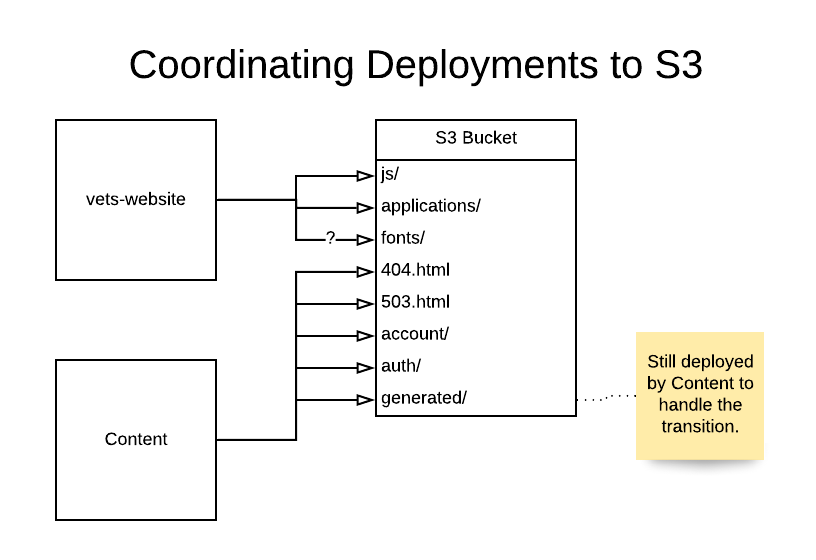
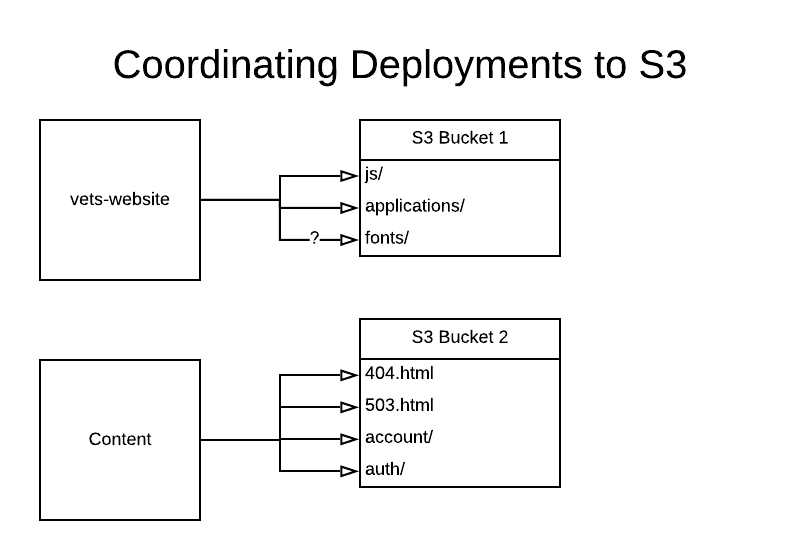
Update Content Build Separation design doc (#10116)
* Update 2020-04-09-separate-content-build.md

* Update s3 bucket diagram

* Update 2020-04-09-separate-content-build.md

* Update platform/engineering/design-docs/2020-04-09-separate-content-build.md

* Update platform/engineering/design-docs/2020-04-09-separate-content-build.md

* Update doc with review feedback

* Add a line back in

* Remove errant underscore

* Rename improve-dev-exp-product-outline to improve-dev-exp-product-outline.md

* Update platform/engineering/design-docs/2020-04-09-separate-content-build.md

diff --git a/platform/engineering/design-docs/2020-04-09-separate-content-build.md b/platform/engineering/design-docs/2020-04-09-separate-content-build.md
@@ -168,8 +168,10 @@ The current front end build will be split up into two distinct builds:
     - Output: JavaScript and CSS bundles
     - This essentially maps to the current full deploy minus the content
 
-The output of both these builds will be deployed to a single S3 bucket with
-safeguards in place to ensure they don't override each other.
+There will be two _new_ S3 buckets. One will hold the output of the application build (including .js and .css), and the other will hold the output of the content build (including .html and .pdf).
+The original bucket will still exist to hold the teamsite assets.
+
+Previously there would just be one bucket to hold the output of both builds.
 
 **Another important note:** The deploy process will not automatically coordinate these two deploys to
 make an application live for the first time. The process will be to manually:
@@ -211,14 +213,15 @@ The output of the application build **currently** live in the `/generated/`
 directory. To support the transition, the **new** application build will put its
 assets in the `/applications/` directory.
 
-![Coordinating deployments to S3](images/separated-content-build/coordinating-deployments-to-s3.png)
+#### Nginx Reverse Proxy
 
-To ensure that one build won't override files in the other, we'll have to
-1. Update
-   [`vets-website-deploy.sh`](https://github.com/department-of-veterans-affairs/devops/blob/2c63e6d62fa5ad2b6b87478e30d0a7bc2820c252/ansible/deployment/roles/deploy-vets-website/files/vets-website-deploy.sh)
-   to copy only to the `/applications/` directory
-1. Create a new deploy script for the content deployment which copies everything
-   over _except_ the `/applications/` directory
+Our reverse proxy currently routes all va.gov requests to the same S3 bucket.
+When we split things up to have the application build in one bucket and the content in another we will need to update the routing.
+
+All static content (html, pdf files) will be proxied to the bucket containing the content build,
+and requests for everything else (js, css files) will be proxied to the bucket containing the application build.
+
+![Coordinating deployments to S3](images/separated-content-build/coordinating-deployments-to-s3.png)
 
 #### Creating temporary static pages for application testing
 - The Webpack configuration will use
@@ -477,17 +480,6 @@ to keep it in `vets-website`. The reasons we're not doing this are:
   - It will be harder for an application to use be able to use a dependency that
     wasn't intended to be client-facing
 
-#### Multiple S3 Buckets
-There are a few challenges that multiple buckets present.
-1. ATO
-    - There's a lot of paperwork
-1. Namespacing
-    - To use S3 to serve a static site, the bucket needs to be named after the
-      namespace, e.g. `www.VA.gov`
-    - We could maybe get around this with using a subdomain like
-      `javascript.VA.gov` or something, but again, paperwork and likely more
-      maintenance burden
-
 ### Future Work
 1. Splitting out the platform code from the application code
 1. Splitting up the applications into separate repositories
@@ -496,3 +488,4 @@ There are a few challenges that multiple buckets present.
 Date | Revisions Made | Author
 -----|----------------|--------
 Apr 9, 2020 | Initial draft | Christopher Valarida
+Jun 11, 2020 | Change the plan to use multiple S3 buckets | Brooks Johnson
